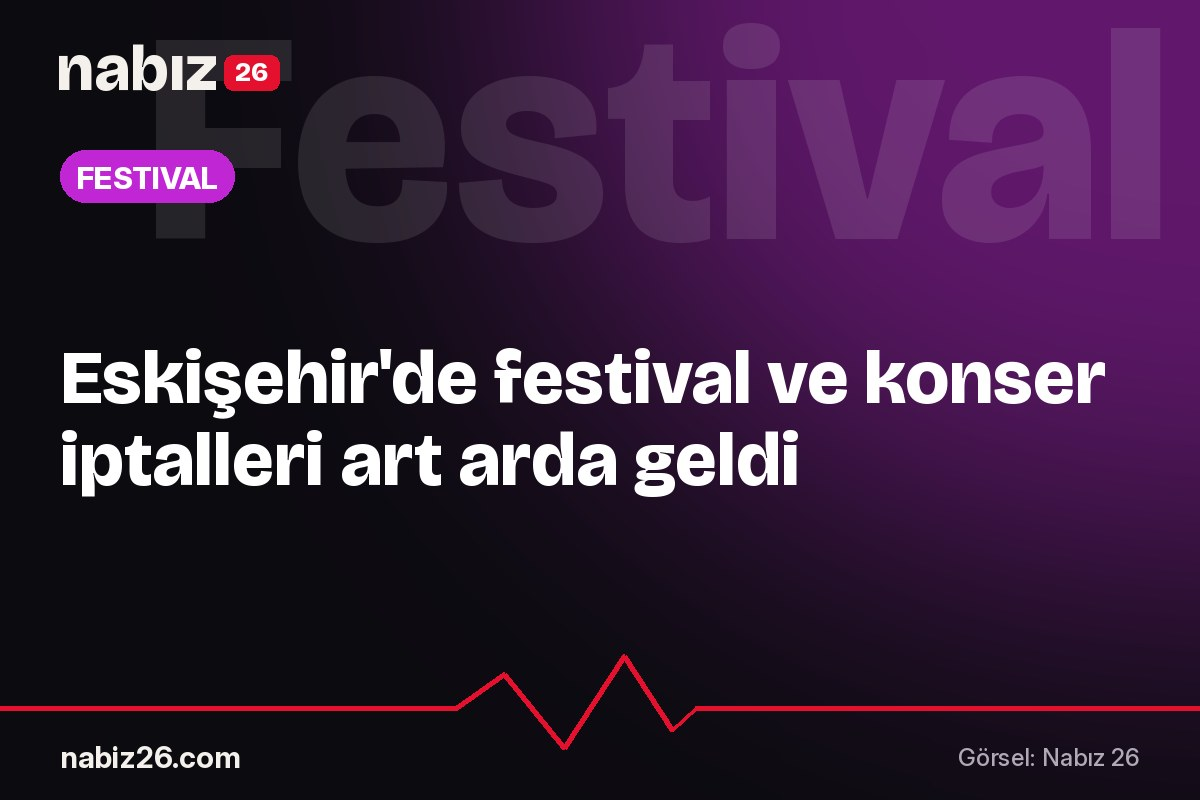
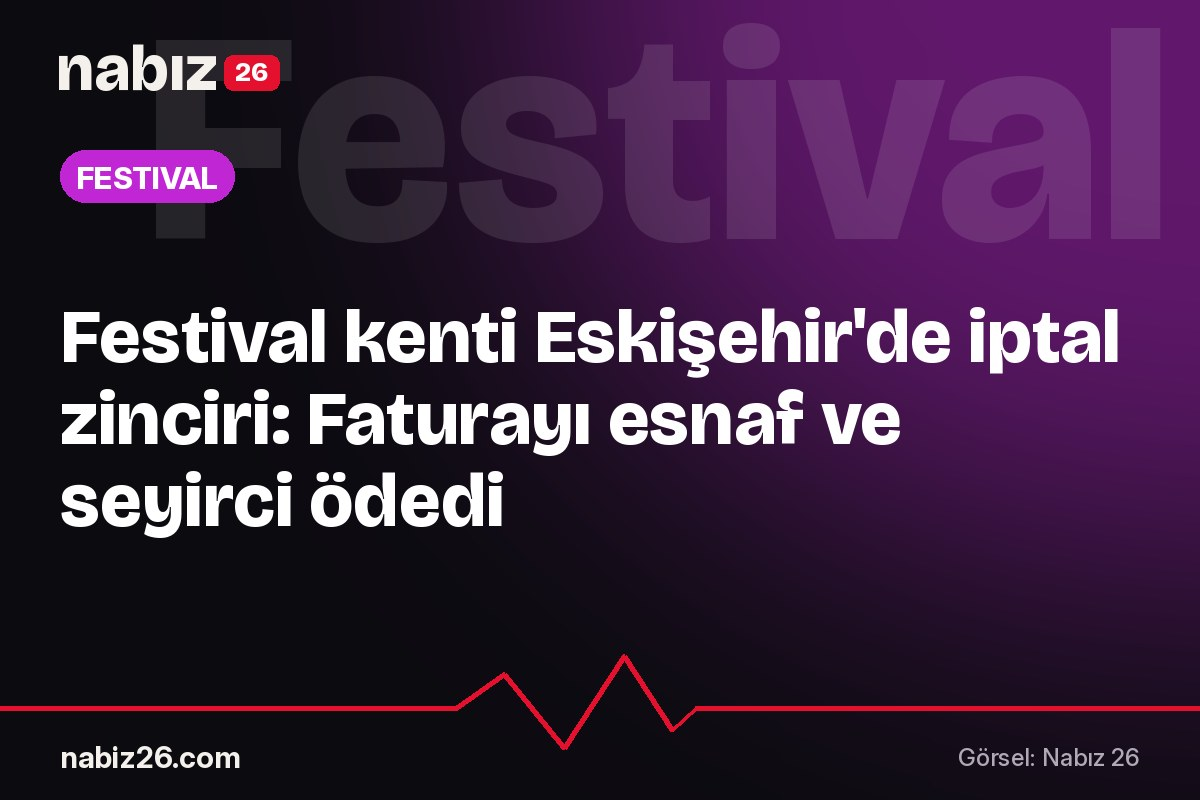
Festival iptalleri haberini sahibinin isteğiyle eleştirel dille yeniden yaz
Mağdur esnafın ve sanatçıların kaynaklı ifadeleri, Piiz iptali ve cevapsız
sorular eklendi; başlık ve kapak güncellendi.

Claude-Session: https://claude.ai/code/session_01DqMJUAyKYMNuhcfRXAiKaK

Changed region(s): [[0.0308, 0.375, 0.9558, 0.6875]]

diff --git a/SON_HABERLER.md b/SON_HABERLER.md
@@ -84,23 +84,25 @@ Turizm Fakültesi uygulama mutfağında Doç. Dr. Merve Özgür Göde ve Araş. 
 
 ---
 
-## Eskişehir'de festival ve konser iptalleri art arda geldi
+## Festival kenti Eskişehir'de iptal zinciri: Faturayı esnaf ve seyirci ödedi
 
 **Kültür-Sanat · Merkez** · 2026-10-22 14:32 UTC · Kaynak: [Eskişehir.net ve yerel basın](https://www.eskisehir.net/eskisehirde-bir-festival-daha-iptal-edildi)
 
 ![](data/images/festival-iptalleri-20261022.jpg)
 
-> Kentte son iki ayda beş etkinlik iptal edildi. Çoğunda hava koşulları ve organizasyon sorunları gerekçe gösterilirken Yalın konseri için ayrıntılı bir açıklama yapılmadı.
+> Festivalleriyle öne çıkan Eskişehir'de son iki ayda beş etkinlik iptal edildi. Organizasyon krizinde tezgâh açan esnaf zarar ettiğini söylerken, bilet alanlar iade için platform platform dolaşmak zorunda kaldı.
 
-Eskişehir'de eylülün başından bu yana festival ve konser iptalleri peş peşe yaşandı. Son iki ayda beş etkinlik ya tamamen iptal edildi ya da programından çıkarıldı. Bilet alan vatandaşlar ve etkinlik alanlarında tezgâh açan esnaf, iptallerden en çok etkilenen kesim oldu.
+Konserleri, açık hava etkinlikleri ve uluslararası festivalleriyle kendini "festival kenti" olarak tanıtan Eskişehir, eylül ve ekim aylarında art arda gelen iptallerle anıldı. Son iki ayda beş etkinlik ya tamamen iptal edildi ya da programdan çıkarıldı. İptallerin bedelini ise bilet alan seyirciler, yol masrafına girip tezgâh kuran esnaf ve hazırlık yapan kurumlar ödedi.
 
-En son iptal, 23-25 Ekim'de Kentpark'ta yapılması planlanan Şehir Festivalleri'nden geldi. Organizasyonu üstlenen Because Creative, beklenen yoğun yağış ve olumsuz hava koşullarının katılımcılar ve ekip için risk oluşturacağını belirterek festivali iptal ettiğini duyurdu. Bilet sahiplerinin iade için bileti aldıkları platformlara başvurması istendi.
+Tablonun en ağır halkası Tepebaşı'nda 18-20 Eylül'de düzenlenen Food Vibe Fest oldu. Ceza, Piiz ve İrem Derici, organizasyon firmasının sorumluluklarını yerine getirmediğini açıklayarak konserlerini iptal etti. İrem Derici paylaşımında, "Kabahatli ben olmasam da bizi de mağdur edenler adına ben sizlerden özür dilerim" diyerek seyircilerden özür diledi.
 
-Eylülde ise Tepebaşı'ndaki Food Vibe Fest büyük bir krize sahne oldu. Ceza ve İrem Derici, organizasyon firmasının sorumluluklarını yerine getirmediğini açıklayarak konserlerini iptal etti. Farklı illerden gelip üç günlük tezgâh açan esnaf mağdur olduklarını dile getirdi, etkinlik sorumlusu polis tarafından karakola götürüldü.
+Festival için Türkiye'nin farklı illerinden Eskişehir'e gelen esnaf ise stant ücretleri, elektrik ve jeneratör sorunları, beklenenin çok altında kalan ziyaretçi sayısı ve bozulan ürünler nedeniyle ciddi zarara uğradıklarını anlattı. Adana'dan geldiğini söyleyen esnaf Hüseyin Yüksel, "7 bin bilet satıldığı söylenmişti ancak 2 günde bin kişi bile gelmedi" dedi. Esnafın şikâyetçi olduğu organizasyon sorumlusu E.Ü. polis tarafından karakola götürüldü ve hakkında işlem başlatıldı.
 
-26 Eylül'de yapılacak 3. İnönü Havacılık Festivali de güçlü rüzgâr ve olumsuz hava nedeniyle iptal edildi. Türk Hava Kurumu Eskişehir Şube Başkanı Gökhan Çalışkan, hazırlıkların tamamlandığını ancak hava şartlarının etkinliğe uygun olmadığını açıkladı. Uluslararası Eskişehir Porsuk Festivali kapsamında 6 Eylül'de sahnelenecek "Yıldız" adlı tiyatro oyunu ise sağlık sorunu gerekçesiyle programdan çıkarıldı.
+Kriz bununla da sınırlı kalmadı. 23-25 Ekim'de Kentpark'ta yapılacak Şehir Festivalleri, düzenleyici Because Creative'in yoğun yağış riski açıklamasıyla iptal edildi. Bilet sahiplerine, iade için bileti aldıkları platformlarla kendilerinin iletişime geçmesi söylendi; festivalin ileri bir tarihte yapılıp yapılmayacağına dair bir bilgi verilmedi.
 
-7 Ekim'de Vecihi Hürkuş Havacılık ve Teknoloji Parkı'nda yapılması planlanan Yalın konseri de iptal edilenler arasında yer aldı. Bilet sahiplerine mesajla duyurulan kararın gerekçesine ilişkin kamuoyuna ayrıntılı bir açıklama yapılmadı. Prodüksiyon şirketi, konserin bahar aylarında Eskişehir'de yapılacağını bildirdi.
+26 Eylül'deki 3. İnönü Havacılık Festivali de hazırlıkları tamamlanmışken güçlü rüzgâr nedeniyle iptal edildi ve yeni bir tarih açıklanmadı. 7 Ekim'deki Yalın konseri ise bilet sahiplerine gönderilen bir mesajla iptal edildi; kararın gerekçesi kamuoyuyla paylaşılmadı, prodüksiyon şirketi yalnızca konserin bahara kaldığını bildirdi. Porsuk Festivali kapsamındaki "Yıldız" adlı tiyatro oyunu da sağlık sorunu gerekçesiyle sahnelenemedi.
+
+Art arda gelen iptaller, kentte etkinlik düzenleyen firmaların nasıl denetlendiği, açık hava etkinliklerinde hava koşullarına karşı neden bir yedek plan bulunmadığı, bilet iadelerinin tamamlanıp tamamlanmadığı ve Food Vibe Fest'te zarar eden esnafın kayıplarının kim tarafından karşılanacağı sorularını gündeme getirdi. Nabız 26, bu soruların yanıtlarının peşini bırakmayacak.
 
 ---
 
